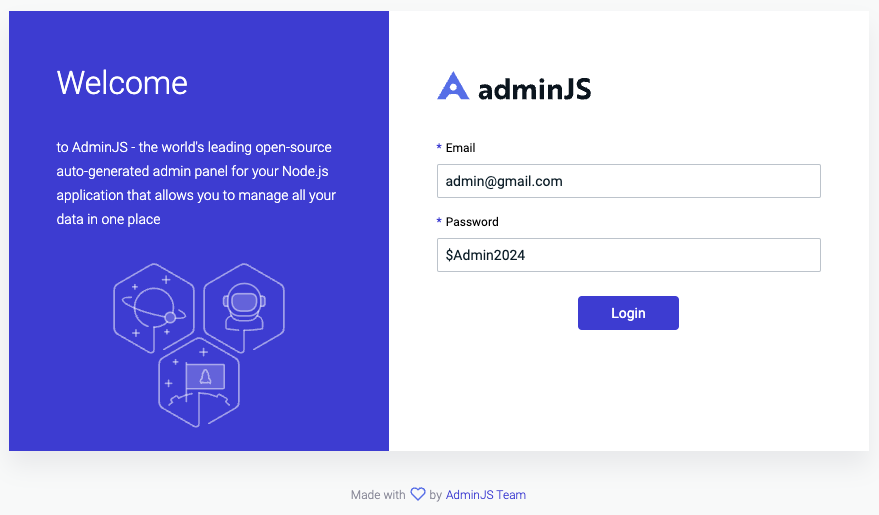
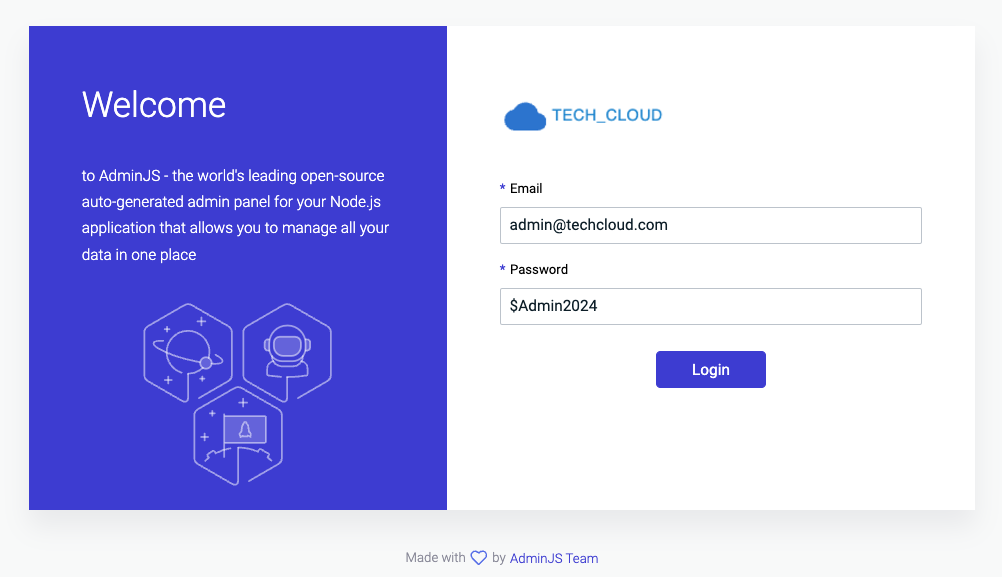
[main] Update docs and admin panel

diff --git a/src/admin/routes.js b/src/admin/routes.js
@@ -19,6 +19,12 @@ const db = await new Adapter('mysql2', {
 
 const routes = new AdminJS({
     databases: [db],
+    branding: {
+        companyName: '[Admin] Tech_Cloud',
+        logo: 'http://localhost:8080/app/logo.png',
+        favicon: 'http://localhost:3000/favicon.ico',
+        softwareBrothers: false,
+    },
     resources: [
         {
             resource: db.resourceMap.get('posts'),

diff --git a/mailer/service.js b/mailer/service.js
@@ -33,7 +33,7 @@ async function send(email, subject, htmlTemplate, dataForTemplate) {
         );
         const result = await airplane.sendMail(
             {
-                from: "\"usof\" info@usof.test",
+                from: "\"Tech_Cloud\" info@techcloud.com",
                 to: email,
                 subject,
                 html

diff --git a/README.md b/README.md
@@ -80,6 +80,6 @@ All users with role `user` has password: `$User2024`. It's fake data for present
 ### Admin for presentations
    ```text
       login: admin
-      password: admin@gmail.com
+      password: admin@techcloud.com
       password: $Admin2024
    ```
